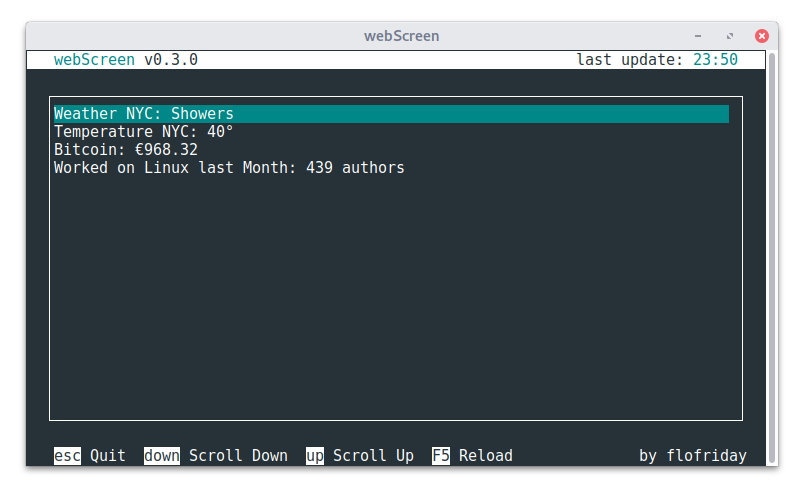
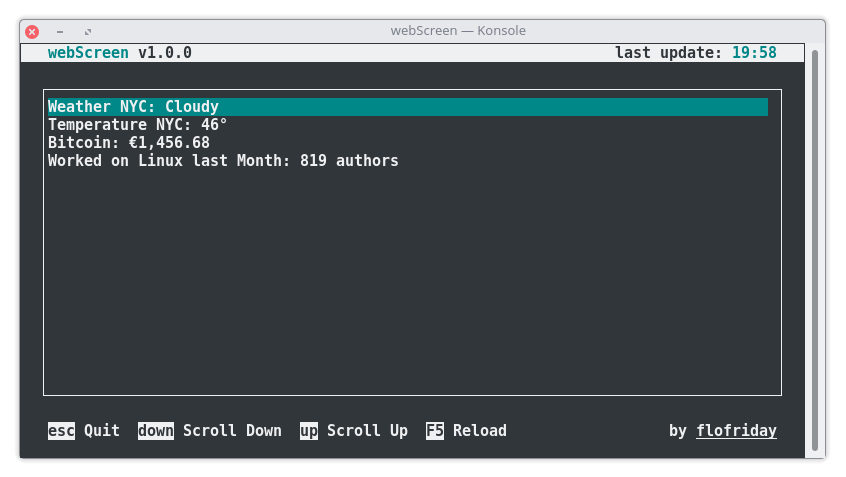
Update to version 1.0

Changed region(s): [[0.0, 0.0294, 0.9963, 0.9686]]

diff --git a/src/WS_UI.js b/src/WS_UI.js
@@ -1,6 +1,5 @@
 "use strict"
 
-
 var blessed = require('blessed');
 var opn = require('opn');
 
@@ -241,7 +240,7 @@ const commands = {
   'up': 'Scroll Up',
   'F5': 'Reload'
 }
-let text = ''
+var text = ''
 for (const c in commands) {
   const command = commands[c]
   text += `  {inverse}${c}{/inverse} ${command}`
@@ -257,22 +256,21 @@ const footerLeft = blessed.box({
 footerLeft.setContent(text);
 
 // the right footer
-const footerRight = blessed.box({
+const footerRight = blessed.button({
   mouse: true,
   keys: true,
   width: 'shrink',
   top: '100%-1',
-  content: 'by flofriday',
+  content: 'by {underline}flofriday{/underline}',
   right: 3,
   tags: true,
   fg: exports.fontColor,
   bg: exports.backColor
 })
 
-
 // Append objects to screen
 screen.append(background);
-screen.append(menuBar);
+ screen.append(menuBar);
 screen.append(menuBarLeft);
 screen.append(menuBarMiddle);
 screen.append(menuBarRight);
@@ -281,10 +279,8 @@ screen.append(footerRight);
 screen.append(itemList);
 screen.append(loadingIndicator);
 
-
 // Focus the itemlist
 itemList.focus();
-
 
 // flofriday clicked
 footerRight.on('click', function(data) {
@@ -296,7 +292,6 @@ footerRight.on('mouseover', function(data) {
   if (isRenderAllowed) { screen.render(); }
 });
 footerRight.on('mouseout', function(data) {
-  footerRight.setContent('by flofriday');
   if (isRenderAllowed) { screen.render(); }
 });
 
@@ -305,7 +300,6 @@ screen.key('f5', function(ch, key) {
   if (isRenderAllowed) { screen.render(); }
   refreshCallback();
 });
-
 
 // Quit webScreen at Escape, or Control-C
 screen.key(['escape', 'C-c'], function(ch, key) {

diff --git a/src/app.js b/src/app.js
@@ -53,7 +53,7 @@ ui.setRefreshCallback(function () {
   scrap.loadItems()
 })
 
-// The values reload automatically every minute
+// The values reload automatically
 ui.showLoadingIndicator(true)
 scrap.loadItems()
 setInterval(function () {
